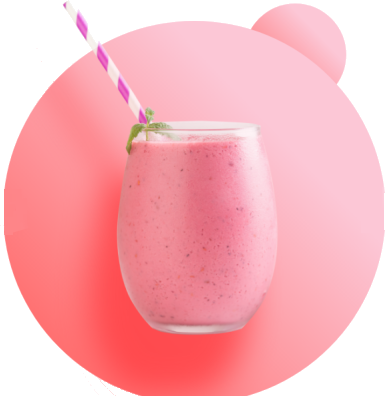
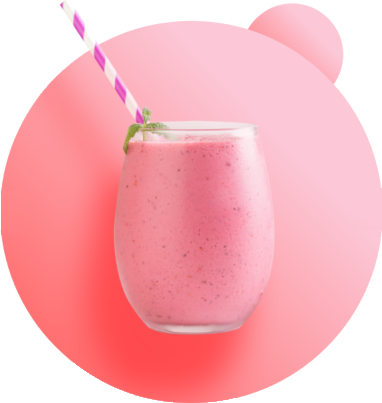
Style update

diff --git a/css/main.css b/css/main.css
@@ -1,6 +1,10 @@
 @import "./base/reset.css";
-@import "./components/";
+@import "./components/font-awesome.min.css";
 @import "./components/button.css";
+
+:root {
+  --primary-color: #ff5e61;
+}
 
 body {
   display: flex;
@@ -9,11 +13,98 @@ body {
   gap: 30px;
   justify-content: flex-start;
   align-items: center;
+  padding: 20px;
 }
 
 .container {
+  display: flex;
+  justify-content: flex-end;
+  align-items: center;
+  gap: 50px;
   width: 100%;
-  background-color: red;
+}
+
+.logo {
+  height: 25px;
+  margin-right: auto;
+}
+
+.menu {
+  display: flex;
+  gap: 20px;
+}
+
+.menu > a {
+  color: #000;
+  text-decoration: none;
+}
+
+.menu > a:hover {
+  color: var(--primary-color);
+  text-decoration: none;
+}
+
+.icons {
+  display: flex;
+  gap: 20px;
+}
+
+.icons > a {
+  color: #000;
+  text-decoration: none;
+}
+
+.icons > a:hover {
+  color: var(--primary-color);
+  text-decoration: none;
+}
+
+.gallery {
+  width: 60%;
+  padding: 0 1em;
+  position: relative;
+}
+
+.gallery > img {
+  width: 100%;
+}
+
+.gallery > .fa {
+  position: absolute;
+  top: 50%;
+  transform: translateY(-50%);
+  width: 1.4em;
+  height: 1.4em;
+  line-height: 1.4em;
+  text-align: center;
+  background-color: var(--primary-color);
+  border-radius: 50%;
+  color: #fff;
+  font-size: 30px;
+}
+
+.gallery > .fa.fa-angle-left {
+  left: 0;
+  padding-right: 0.17em;
+  /* transform: translateX(100%); */
+}
+
+.gallery > .fa.fa-angle-right {
+  right: 0;
+  padding-left: 0.17em;
+  /* transform: translateX(-50%); */
+}
+
+.text {
+  width: 40%;
+}
+
+.text > .leftcolumn {
+  margin-left: 0;
+}
+
+.text > .rightcolumn {
+  margin-right: 0;
 }
 
 @media (min-width: 480px) {

diff --git a/index.html b/index.html
@@ -18,10 +18,33 @@
   
 <body>
     <header class="container">
-        HEADER
+        <img src="./img/logo.png" alt="logo" class="logo">
+        <nav class="menu">
+            <a href="">Home</a>
+            <a href="">Smoothies</a>
+            <a href="">Contact us</a>
+        </nav>
+        <nav class="icons">
+            <a href="#" class="fa fa-search"></a>
+            <a href="#" class="fa fa-shopping-bag"></a>
+        </nav>
     </header>
     <main class="container">
-        MAIN CONTENT
+        <div class="gallery">
+            <img src="./img/mainimage.png" alt="mainimage">
+            <i class="fa fa-angle-left"></i>
+            <i class="fa fa-angle-right"></i>
+        </div>
+        <div class="text">
+            <p>Berries</p>
+            <h1>Strawberry rush</h1>
+            <p>The best blend of strawberries, rasberries and mulberries.</p>
+            <div class="column">
+                <p class="left-column">National bevenefits</p>
+                <p class="right-column">Contents</p>
+            </div>
+            <button> Add to cart</button>
+        </div>
     </main>
 
 </body>
